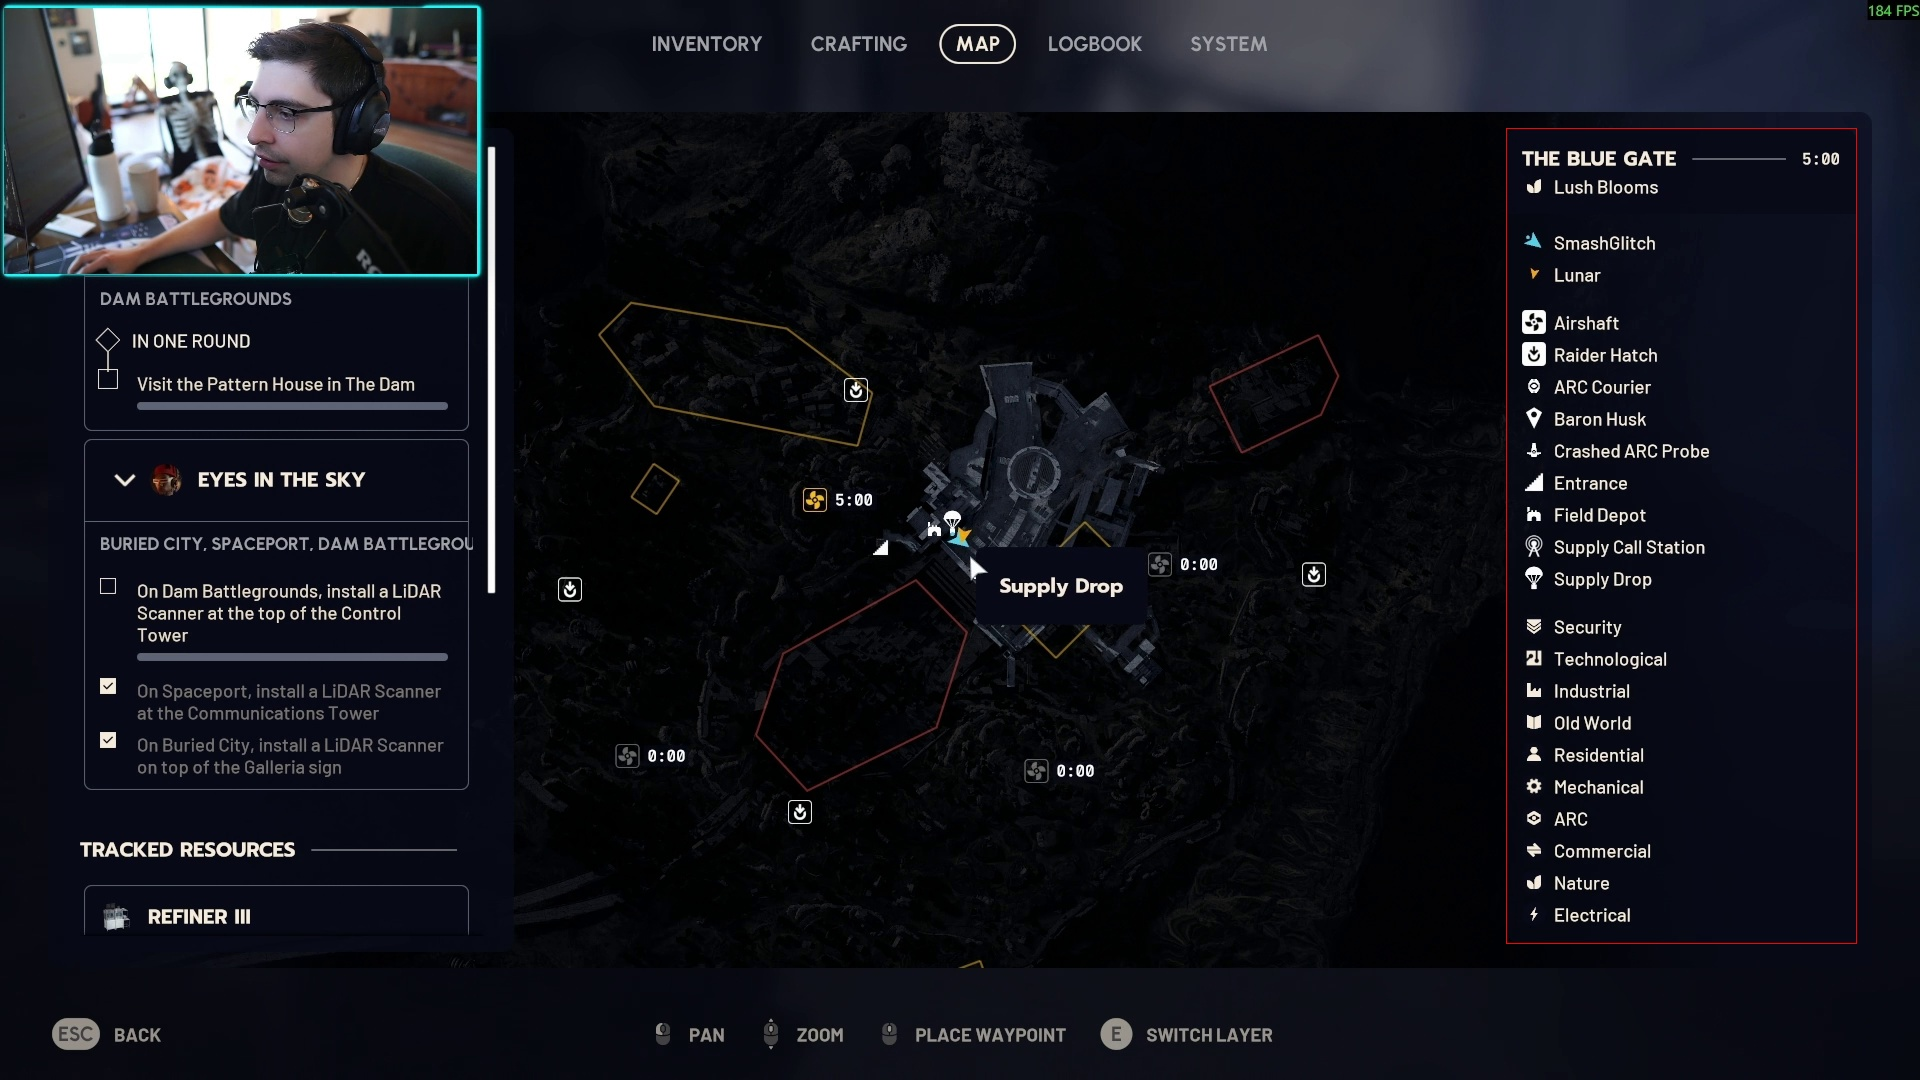
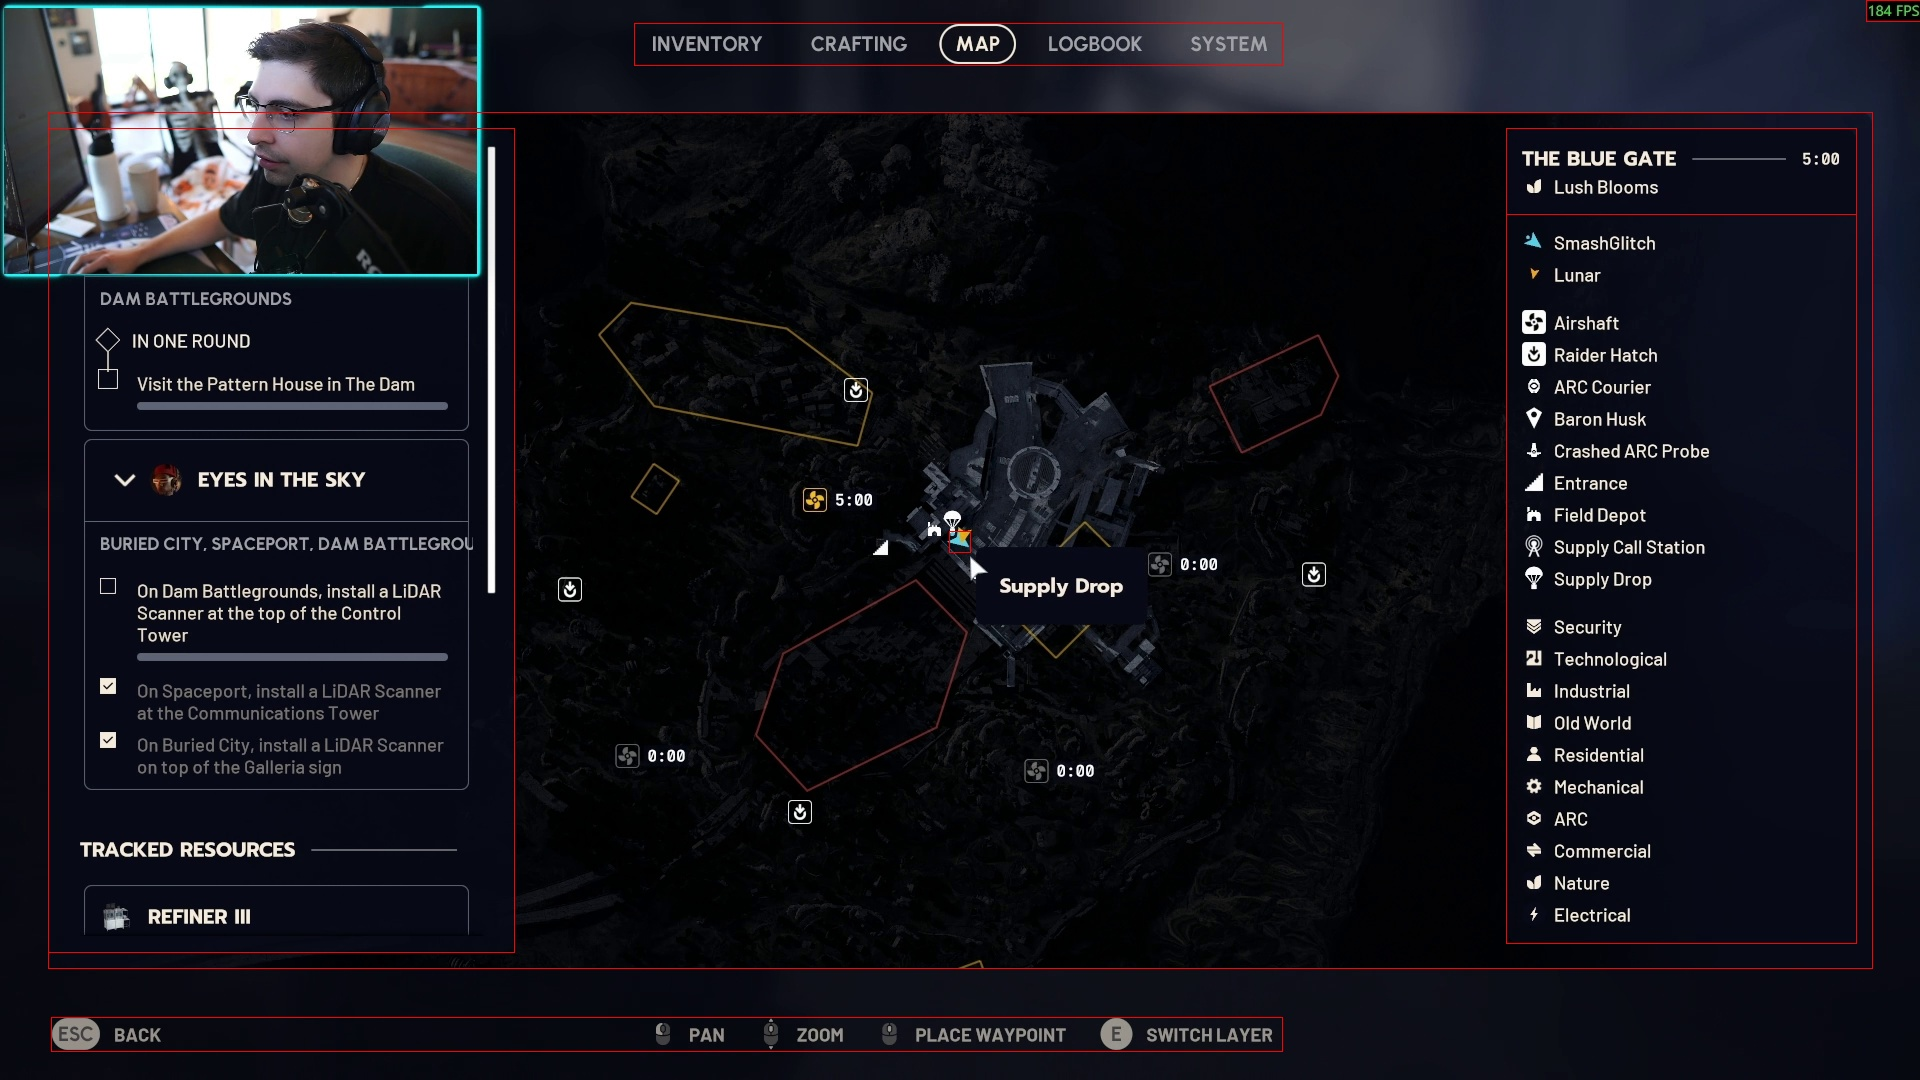
more tracked elements and general overlays, updated readme examples

Changed region(s): [[0.0312, 0.0917, 0.2812, 0.1222], [0.9688, 0.0, 1.0, 0.0306]]

diff --git a/src/analysis/arccv.py b/src/analysis/arccv.py
@@ -108,7 +108,12 @@ class ARCCV:
 
     # Map UI
 
+    MAP_BOUNDING_BOX = (48, 112, 1824, 856)
+    MAP_PLAYER_POSITION_SUBREGION = (949, 531, 21, 21)
     MAP_LEGEND_BOUNDING_BOX = (1506, 128, 350, 815)
+    MAP_DETAILS_SUBREGION = (1506, 128, 350, 86)
+    MAP_QUESTS_BOUNDING_BOX = (48, 128, 466, 824)
+    MAP_KEYBINDS_BOUNDING_BOX = (51, 1017, 1231, 34)
 
     # Weapon localization
 
@@ -163,7 +168,15 @@ class ARCCV:
         total_frames = int(capture.get(cv2.CAP_PROP_FRAME_COUNT))
 
         # Define process overrides
-        PROCESS_START_FRAME = (23 * 60 * 60) + (22 * 60)
+
+        # PROCESS_START_FRAME = 84120 # In Raid UI example
+
+        PROCESS_START_FRAME = 71160 # Looting UI example
+
+        # PROCESS_FRAME_COUNT = 6 # Map UI example
+        # PROCESS_FRAME_COUNT = 89040 # Map UI example
+
+        # PROCESS_START_FRAME = (24 * 60 * 60) + (44 * 60)
         PROCESS_FRAME_COUNT = 1
         capture.set(cv2.CAP_PROP_POS_FRAMES, PROCESS_START_FRAME)
 
@@ -179,13 +192,13 @@ class ARCCV:
 
 
             self._draw_in_raid_ui(raid_ui_frame)
-            cv2.imwrite(f"/usr/src/analysis/inraid_frame_{int(PROCESS_START_FRAME + offset):06d}.jpg", raid_ui_frame)
+            cv2.imwrite(f"/usr/src/analysis/frame/inraid_frame_{int(PROCESS_START_FRAME + offset):06d}.jpg", raid_ui_frame)
 
             self._draw_looting_ui(looting_ui_frame)
-            cv2.imwrite(f"/usr/src/analysis/looting_frame_{int(PROCESS_START_FRAME + offset):06d}.jpg", looting_ui_frame)
+            cv2.imwrite(f"/usr/src/analysis/frame/looting_frame_{int(PROCESS_START_FRAME + offset):06d}.jpg", looting_ui_frame)
 
             self._draw_map_ui(map_ui_frame)
-            cv2.imwrite(f"/usr/src/analysis/map_frame_{int(PROCESS_START_FRAME + offset):06d}.jpg", map_ui_frame)
+            cv2.imwrite(f"/usr/src/analysis/frame/map_frame_{int(PROCESS_START_FRAME + offset):06d}.jpg", map_ui_frame)
 
             self._stamina_calculation(frame)
             self._shield_calculation(frame)
@@ -235,6 +248,10 @@ class ARCCV:
         return response.json()
 
     def _draw_in_raid_ui(self, frame):
+        # Shared UI
+        cv2.rectangle(frame, self.FRAME_RATE_COUNTER_SUBREGION[:2], (self.FRAME_RATE_COUNTER_SUBREGION[0] + self.FRAME_RATE_COUNTER_SUBREGION[2], self.FRAME_RATE_COUNTER_SUBREGION[1] + self.FRAME_RATE_COUNTER_SUBREGION[3]), (0, 0, 255), 1)
+
+        # In-raid UI specific
         cv2.rectangle(frame, self.COMPASS_SUBREGION[:2], (self.COMPASS_SUBREGION[0] + self.COMPASS_SUBREGION[2], self.COMPASS_SUBREGION[1] + self.COMPASS_SUBREGION[3]), (0, 0, 255), 1)
         cv2.rectangle(frame, self.COMPASS_BEARING_VALUE_SUBREGION[:2], (self.COMPASS_BEARING_VALUE_SUBREGION[0] + self.COMPASS_BEARING_VALUE_SUBREGION[2], self.COMPASS_BEARING_VALUE_SUBREGION[1] + self.COMPASS_BEARING_VALUE_SUBREGION[3]), (0, 0, 255), 1)
         cv2.rectangle(frame, self.COMPASS_OBJECTIVES_SUBREGION[:2], (self.COMPASS_OBJECTIVES_SUBREGION[0] + self.COMPASS_OBJECTIVES_SUBREGION[2], self.COMPASS_OBJECTIVES_SUBREGION[1] + self.COMPASS_OBJECTIVES_SUBREGION[3]), (0, 0, 255), 1)
@@ -244,7 +261,6 @@ class ARCCV:
         cv2.rectangle(frame, self.RETURN_POINT_SHUTDOWN_NOTICE_REGION[:2], (self.RETURN_POINT_SHUTDOWN_NOTICE_REGION[0] + self.RETURN_POINT_SHUTDOWN_NOTICE_REGION[2], self.RETURN_POINT_SHUTDOWN_NOTICE_REGION[1] + self.RETURN_POINT_SHUTDOWN_NOTICE_REGION[3]), (0, 0, 255), 1)
         cv2.rectangle(frame, self.QUICKWHEEL_BOUNDING_BOX[:2], (self.QUICKWHEEL_BOUNDING_BOX[0] + self.QUICKWHEEL_BOUNDING_BOX[2], self.QUICKWHEEL_BOUNDING_BOX[1] + self.QUICKWHEEL_BOUNDING_BOX[3]), (0, 0, 255), 1)
         cv2.rectangle(frame, self.QUICKWHEEL_TEXT_SUBREGION[:2], (self.QUICKWHEEL_TEXT_SUBREGION[0] + self.QUICKWHEEL_TEXT_SUBREGION[2], self.QUICKWHEEL_TEXT_SUBREGION[1] + self.QUICKWHEEL_TEXT_SUBREGION[3]), (0, 0, 255), 1)
-        cv2.rectangle(frame, self.FRAME_RATE_COUNTER_SUBREGION[:2], (self.FRAME_RATE_COUNTER_SUBREGION[0] + self.FRAME_RATE_COUNTER_SUBREGION[2], self.FRAME_RATE_COUNTER_SUBREGION[1] + self.FRAME_RATE_COUNTER_SUBREGION[3]), (0, 0, 255), 1)
         cv2.rectangle(frame, self.LOCATION_TEXT_SUBREGION[:2], (self.LOCATION_TEXT_SUBREGION[0] + self.LOCATION_TEXT_SUBREGION[2], self.LOCATION_TEXT_SUBREGION[1] + self.LOCATION_TEXT_SUBREGION[3]), (0, 0, 255), 1)
         cv2.rectangle(frame, self.XP_LOGS_SUBREGION[:2], (self.XP_LOGS_SUBREGION[0] + self.XP_LOGS_SUBREGION[2], self.XP_LOGS_SUBREGION[1] + self.XP_LOGS_SUBREGION[3]), (0, 0, 255), 1)
         cv2.rectangle(frame, self.PLAYER_PROXIMITY_VOICE_SUBREGION[:2], (self.PLAYER_PROXIMITY_VOICE_SUBREGION[0] + self.PLAYER_PROXIMITY_VOICE_SUBREGION[2], self.PLAYER_PROXIMITY_VOICE_SUBREGION[1] + self.PLAYER_PROXIMITY_VOICE_SUBREGION[3]), (0, 0, 255), 1)
@@ -273,7 +289,11 @@ class ARCCV:
         cv2.rectangle(frame, self.PLAYER_ZONE_BOUNDING_BOX[:2], (self.PLAYER_ZONE_BOUNDING_BOX[0] + self.PLAYER_ZONE_BOUNDING_BOX[2], self.PLAYER_ZONE_BOUNDING_BOX[1] + self.PLAYER_ZONE_BOUNDING_BOX[3]), (0, 0, 255), 1)
 
     def _draw_looting_ui(self, frame):
+        # Shared UI
+        cv2.rectangle(frame, self.FRAME_RATE_COUNTER_SUBREGION[:2], (self.FRAME_RATE_COUNTER_SUBREGION[0] + self.FRAME_RATE_COUNTER_SUBREGION[2], self.FRAME_RATE_COUNTER_SUBREGION[1] + self.FRAME_RATE_COUNTER_SUBREGION[3]), (0, 0, 255), 1)
         cv2.rectangle(frame, self.OVERLAY_NAVIGATION_SUBREGION[:2], (self.OVERLAY_NAVIGATION_SUBREGION[0] + self.OVERLAY_NAVIGATION_SUBREGION[2], self.OVERLAY_NAVIGATION_SUBREGION[1] + self.OVERLAY_NAVIGATION_SUBREGION[3]), (0, 0, 255), 1)
+
+        # Lotting UI specific
         cv2.rectangle(frame, self.LOOTING_INVENTORY_LOADOUT_DETAILS_SUBREGION[:2], (self.LOOTING_INVENTORY_LOADOUT_DETAILS_SUBREGION[0] + self.LOOTING_INVENTORY_LOADOUT_DETAILS_SUBREGION[2], self.LOOTING_INVENTORY_LOADOUT_DETAILS_SUBREGION[1] + self.LOOTING_INVENTORY_LOADOUT_DETAILS_SUBREGION[3]), (0, 0, 255), 1)
         cv2.rectangle(frame, self.LOOTING_EQUIPMENT_AUGMENT_SUBREGION[:2], (self.LOOTING_EQUIPMENT_AUGMENT_SUBREGION[0] + self.LOOTING_EQUIPMENT_AUGMENT_SUBREGION[2], self.LOOTING_EQUIPMENT_AUGMENT_SUBREGION[1] + self.LOOTING_EQUIPMENT_AUGMENT_SUBREGION[3]), (0, 0, 255), 1)
         cv2.rectangle(frame, self.LOOTING_EQUIPMENT_SHIELD_SUBREGION[:2], (self.LOOTING_EQUIPMENT_SHIELD_SUBREGION[0] + self.LOOTING_EQUIPMENT_SHIELD_SUBREGION[2], self.LOOTING_EQUIPMENT_SHIELD_SUBREGION[1] + self.LOOTING_EQUIPMENT_SHIELD_SUBREGION[3]), (0, 0, 255), 1)
@@ -292,7 +312,17 @@ class ARCCV:
         cv2.rectangle(frame, self.LOOTING_SALVAGE_BOUNDING_BOX[:2], (self.LOOTING_SALVAGE_BOUNDING_BOX[0] + self.LOOTING_SALVAGE_BOUNDING_BOX[2], self.LOOTING_SALVAGE_BOUNDING_BOX[1] + self.LOOTING_SALVAGE_BOUNDING_BOX[3]), (0, 0, 255), 1)
 
     def _draw_map_ui(self, frame):
+        # Shared UI
+        cv2.rectangle(frame, self.FRAME_RATE_COUNTER_SUBREGION[:2], (self.FRAME_RATE_COUNTER_SUBREGION[0] + self.FRAME_RATE_COUNTER_SUBREGION[2], self.FRAME_RATE_COUNTER_SUBREGION[1] + self.FRAME_RATE_COUNTER_SUBREGION[3]), (0, 0, 255), 1)
+        cv2.rectangle(frame, self.OVERLAY_NAVIGATION_SUBREGION[:2], (self.OVERLAY_NAVIGATION_SUBREGION[0] + self.OVERLAY_NAVIGATION_SUBREGION[2], self.OVERLAY_NAVIGATION_SUBREGION[1] + self.OVERLAY_NAVIGATION_SUBREGION[3]), (0, 0, 255), 1)
+
+        # Map UI specific
+        cv2.rectangle(frame, self.MAP_BOUNDING_BOX[:2], (self.MAP_BOUNDING_BOX[0] + self.MAP_BOUNDING_BOX[2], self.MAP_BOUNDING_BOX[1] + self.MAP_BOUNDING_BOX[3]), (0, 0, 255), 1)
+        cv2.rectangle(frame, self.MAP_PLAYER_POSITION_SUBREGION[:2], (self.MAP_PLAYER_POSITION_SUBREGION[0] + self.MAP_PLAYER_POSITION_SUBREGION[2], self.MAP_PLAYER_POSITION_SUBREGION[1] + self.MAP_PLAYER_POSITION_SUBREGION[3]), (0, 0, 255), 1)
         cv2.rectangle(frame, self.MAP_LEGEND_BOUNDING_BOX[:2], (self.MAP_LEGEND_BOUNDING_BOX[0] + self.MAP_LEGEND_BOUNDING_BOX[2], self.MAP_LEGEND_BOUNDING_BOX[1] + self.MAP_LEGEND_BOUNDING_BOX[3]), (0, 0, 255), 1)
+        cv2.rectangle(frame, self.MAP_DETAILS_SUBREGION[:2], (self.MAP_DETAILS_SUBREGION[0] + self.MAP_DETAILS_SUBREGION[2], self.MAP_DETAILS_SUBREGION[1] + self.MAP_DETAILS_SUBREGION[3]), (0, 0, 255), 1)
+        cv2.rectangle(frame, self.MAP_QUESTS_BOUNDING_BOX[:2], (self.MAP_QUESTS_BOUNDING_BOX[0] + self.MAP_QUESTS_BOUNDING_BOX[2], self.MAP_QUESTS_BOUNDING_BOX[1] + self.MAP_QUESTS_BOUNDING_BOX[3]), (0, 0, 255), 1)
+        cv2.rectangle(frame, self.MAP_KEYBINDS_BOUNDING_BOX[:2], (self.MAP_KEYBINDS_BOUNDING_BOX[0] + self.MAP_KEYBINDS_BOUNDING_BOX[2], self.MAP_KEYBINDS_BOUNDING_BOX[1] + self.MAP_KEYBINDS_BOUNDING_BOX[3]), (0, 0, 255), 1)
 
     def _stamina_calculation(self, frame):
         stamina_bar_region = self._extract_subregion(frame, self.STAMINA_BAR_SUBREGION)
